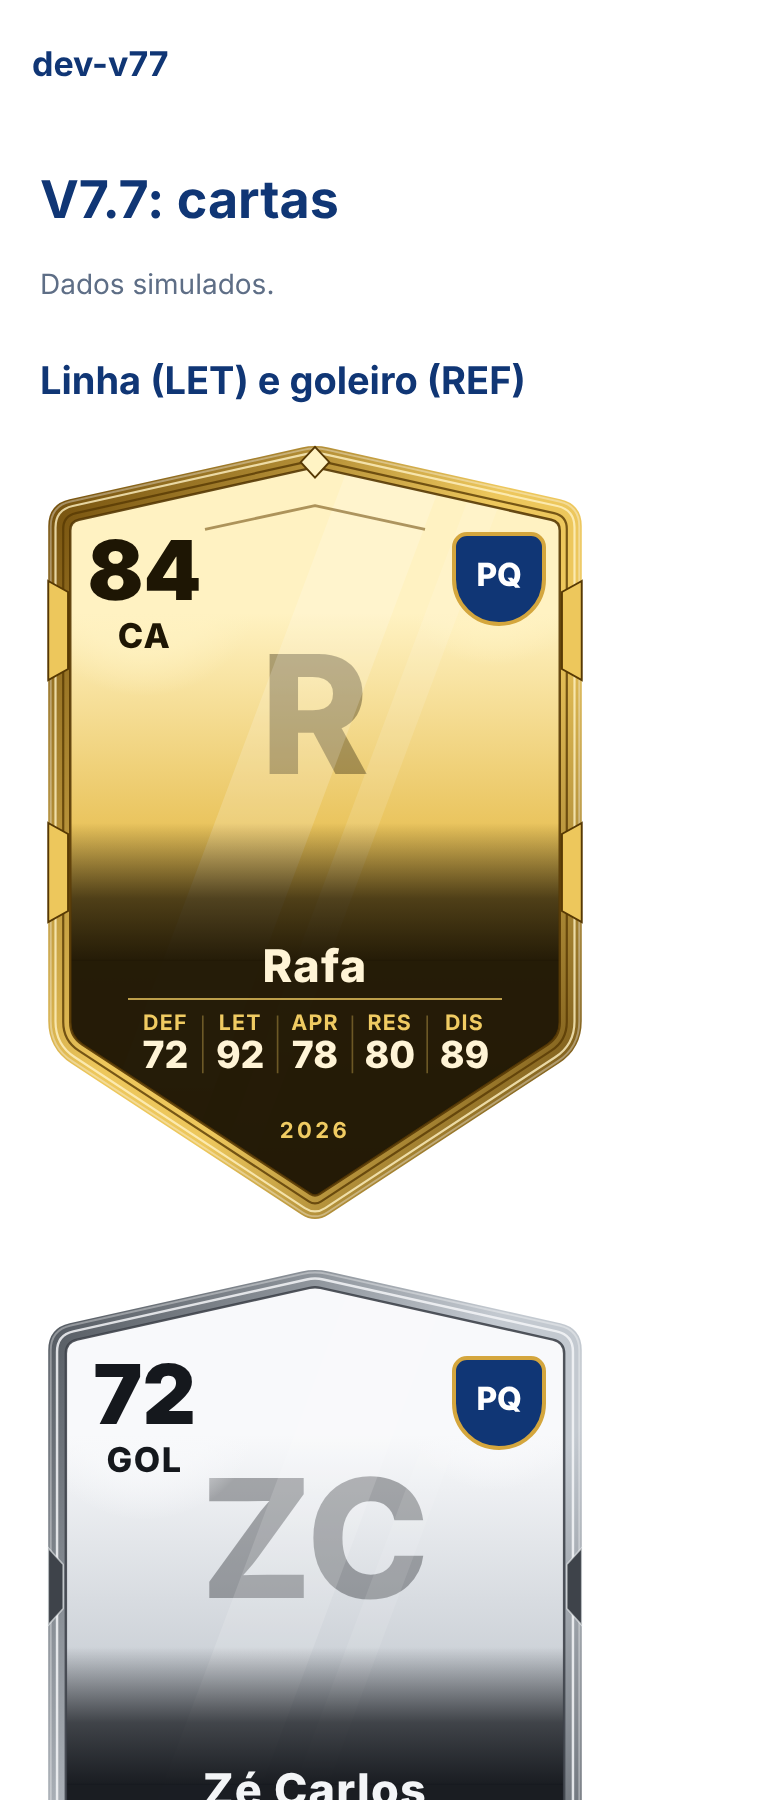
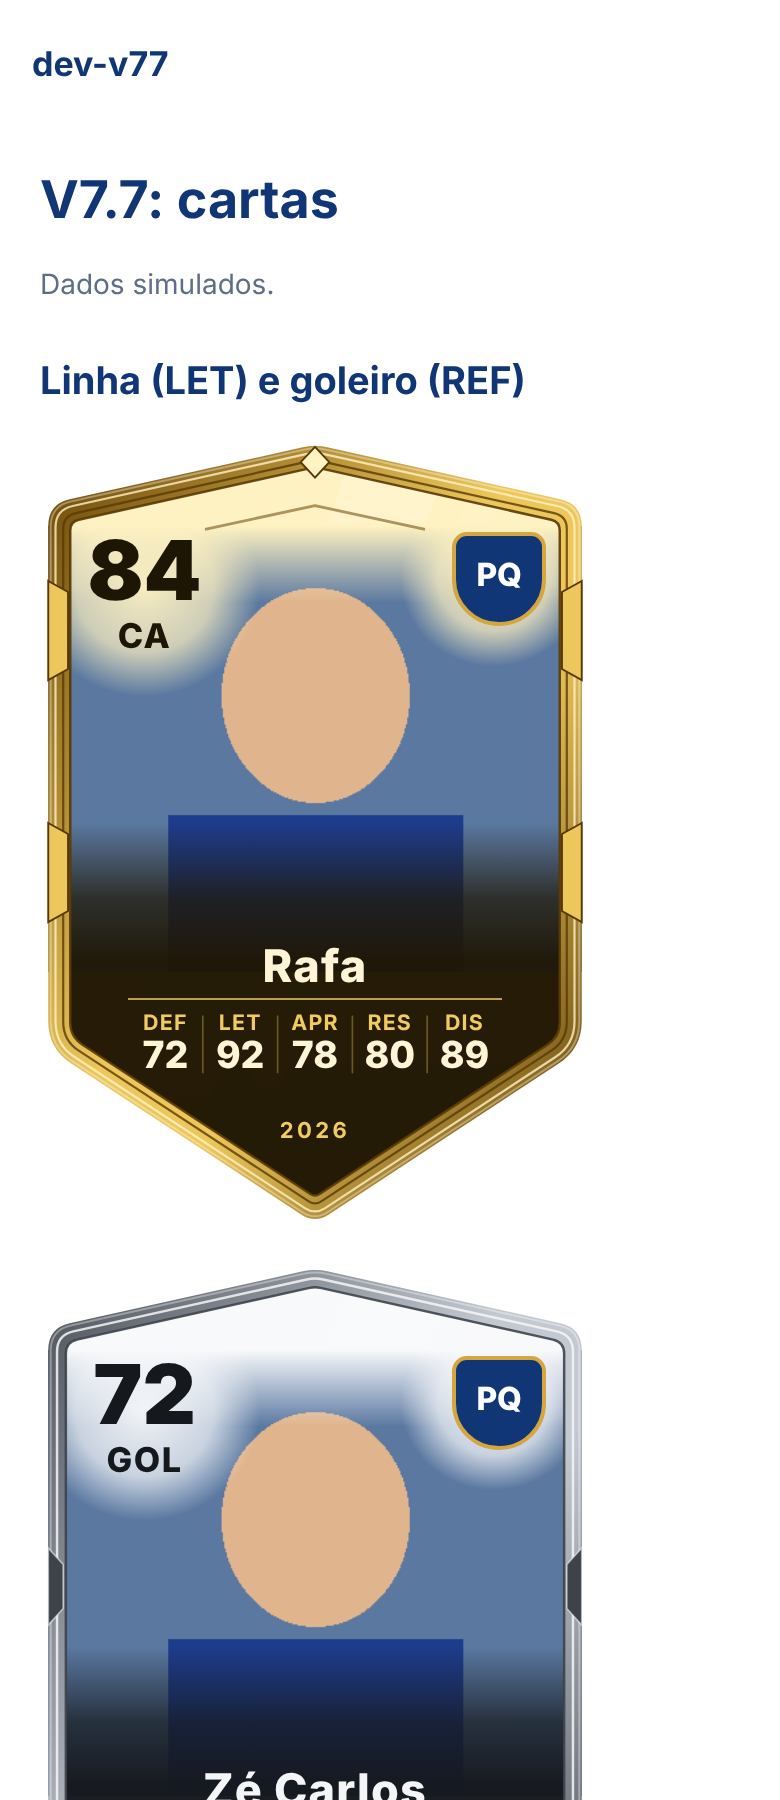
Carta: faixas de brilho atrás da foto, quase transparentes no meio
Claude-Session: https://claude.ai/code/session_012DtbNoau22BR82dvUs8Qio

Changed region(s): [[0.0615, 0.7467, 0.7385, 0.9956], [0.0923, 0.28, 0.7385, 0.5289]]

diff --git a/app/src/lib/playercard.tsx b/app/src/lib/playercard.tsx
@@ -2,7 +2,7 @@
 // Uma única silhueta (topo com vértice central, laterais retas, base pontiaguda) para as três
 // categorias; muda só o acabamento: bronze com contorno simples, prata com contorno duplo e recortes
 // laterais, ouro com moldura em camadas e detalhes no topo e nas laterais.
-// Camadas: corpo metálico (SVG) → foto → degradês, brilho e moldura (SVG) → textos (Views).
+// Camadas: corpo metálico e brilho (SVG) → foto → degradês e moldura (SVG) → textos (Views).
 // A moldura fica por cima da foto, então ela recorta as laterais da foto sem máscara de imagem
 // (a captura da web, html2canvas, não respeita máscara nem "cover"; por isso o recorte da foto
 // quadrada também é feito à mão, com overflow).
@@ -151,8 +151,24 @@ function Back({ tier }: { tier: Tier }) {
           <Stop offset="0.5" stopColor={f.body[1]} />
           <Stop offset="1" stopColor={f.body[2]} />
         </LinearGradient>
+        {/* Brilho mais forte no alto e quase transparente no meio da carta (onde fica o rosto da foto). */}
+        <LinearGradient id={`${id}s`} x1="0" y1="0" x2="0" y2={VB_H} gradientUnits="userSpaceOnUse">
+          <Stop offset="0" stopColor="#FFFFFF" stopOpacity={f.sheen} />
+          <Stop offset="0.2" stopColor="#FFFFFF" stopOpacity={f.sheen * 0.6} />
+          <Stop offset="0.38" stopColor="#FFFFFF" stopOpacity={f.sheen * 0.15} />
+          <Stop offset="0.6" stopColor="#FFFFFF" stopOpacity={f.sheen * 0.15} />
+          <Stop offset="0.75" stopColor="#FFFFFF" stopOpacity={f.sheen * 0.5} />
+        </LinearGradient>
+        <ClipPath id={`${id}bc`}>
+          <Path d={PATHS[tier].inner} />
+        </ClipPath>
       </Defs>
       <Path d={PATHS[tier].inner} fill={`url(#${id}b)`} />
+      {/* Brilho metálico: duas faixas diagonais ATRÁS da foto (a foto fica por cima), somem sob o painel escuro. */}
+      <G clipPath={`url(#${id}bc)`}>
+        <Path d="M58 0 L76 0 L22 144 L4 144 Z" fill={`url(#${id}s)`} />
+        <Path d="M82 0 L88 0 L34 144 L28 144 Z" fill={`url(#${id}s)`} fillOpacity={0.7} />
+      </G>
     </Svg>
   );
 }
@@ -198,9 +214,6 @@ function Front({ tier }: { tier: Tier }) {
         {/* Halo do metal atrás do overall e do escudo, para lerem bem sobre qualquer foto. */}
         <Ellipse cx="19" cy="27" rx="21" ry="20" fill={`url(#${id}g)`} />
         <Ellipse cx="82.5" cy="25.5" rx="17" ry="16" fill={`url(#${id}g)`} />
-        {/* Brilho metálico: duas faixas diagonais discretas, que somem sob o painel escuro. */}
-        <Path d="M58 0 L76 0 L22 144 L4 144 Z" fill="#FFFFFF" fillOpacity={f.sheen} />
-        <Path d="M82 0 L88 0 L34 144 L28 144 Z" fill="#FFFFFF" fillOpacity={f.sheen * 0.7} />
         <Rect x="0" y={PANEL_FROM} width={VB_W} height={PANEL_SOLID - PANEL_FROM} fill={`url(#${id}d)`} />
         <Rect x="0" y={PANEL_SOLID - 0.1} width={VB_W} height={VB_H} fill={f.dark} fillOpacity="0.97" />
         {/* Linha sobre os atributos e separadores entre eles. */}
